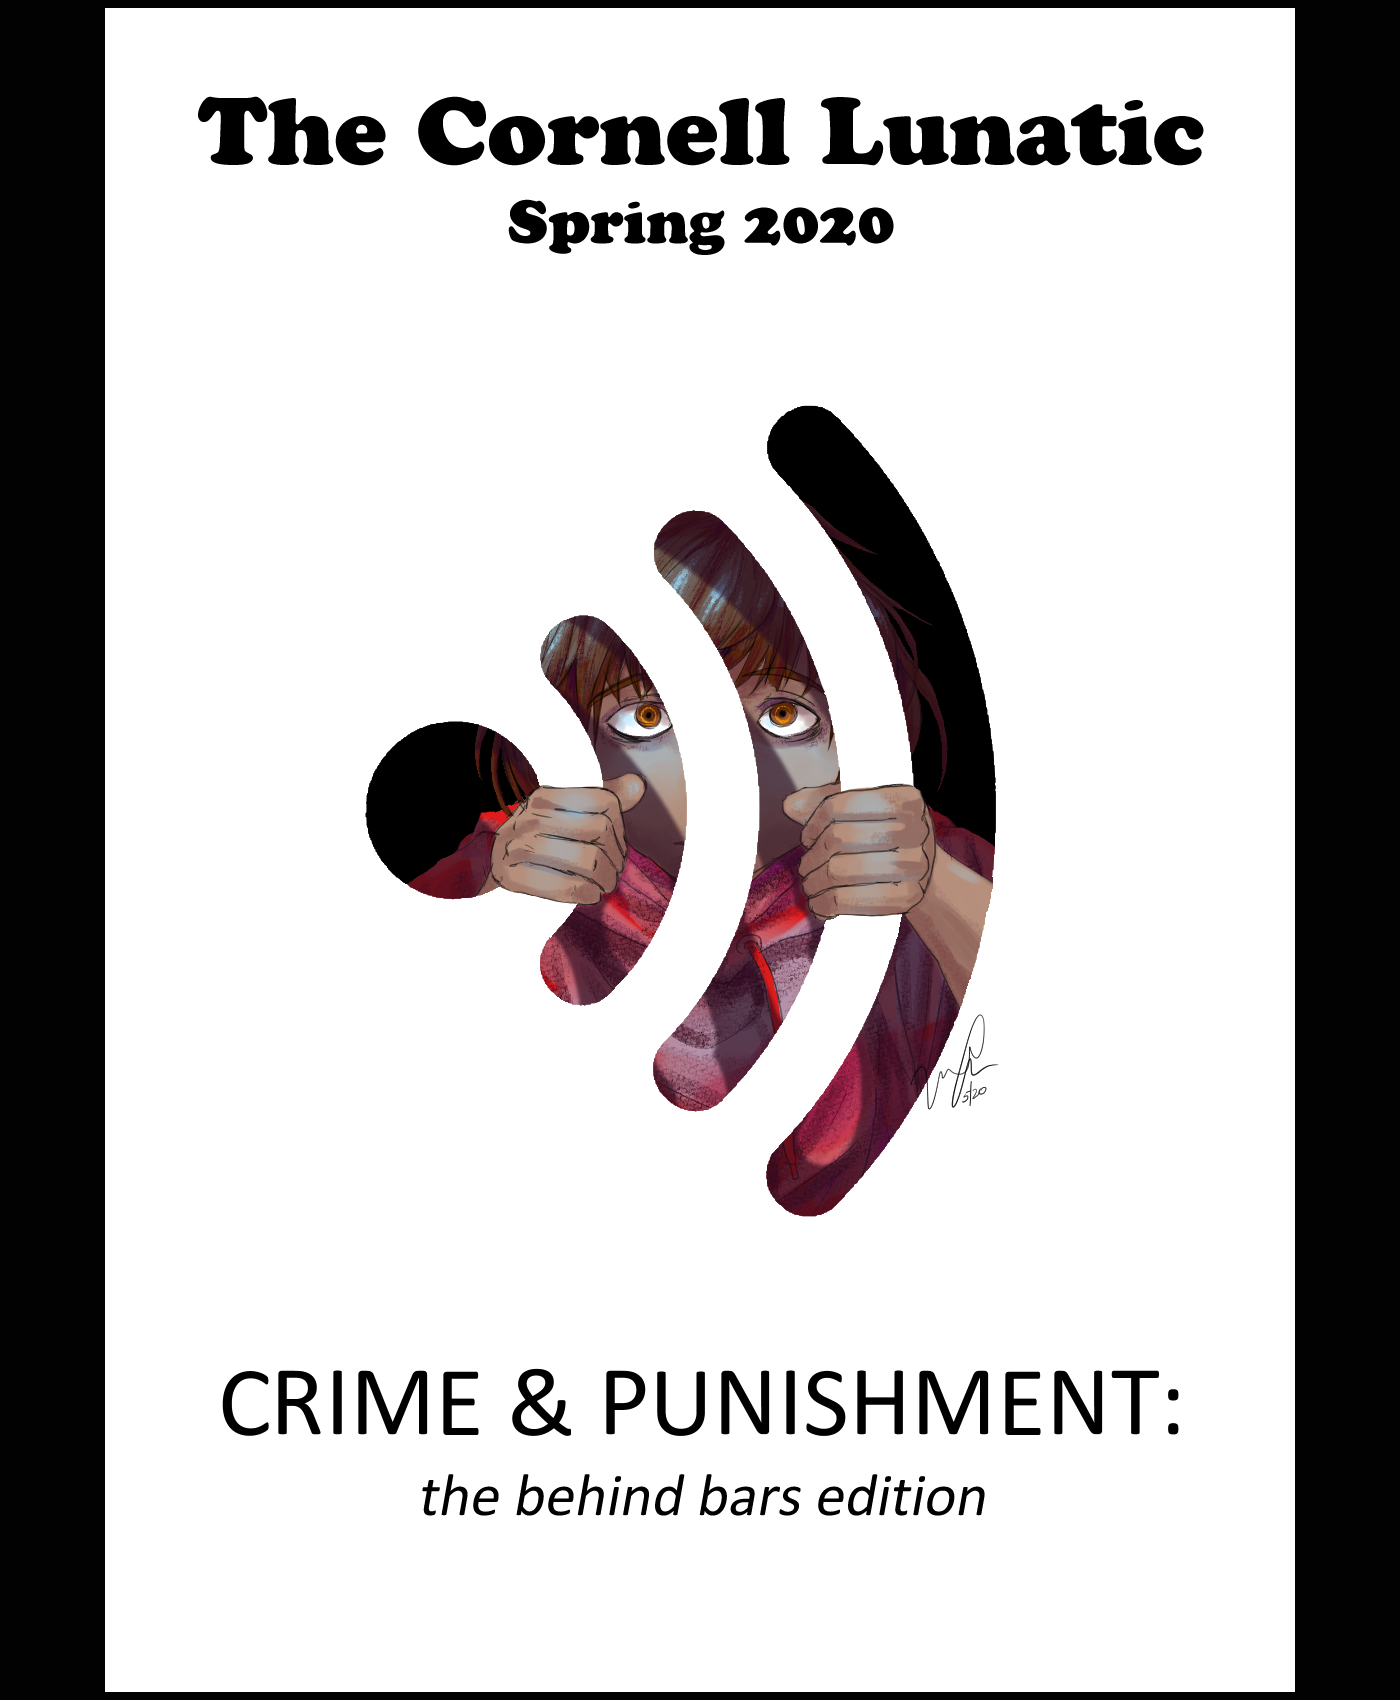
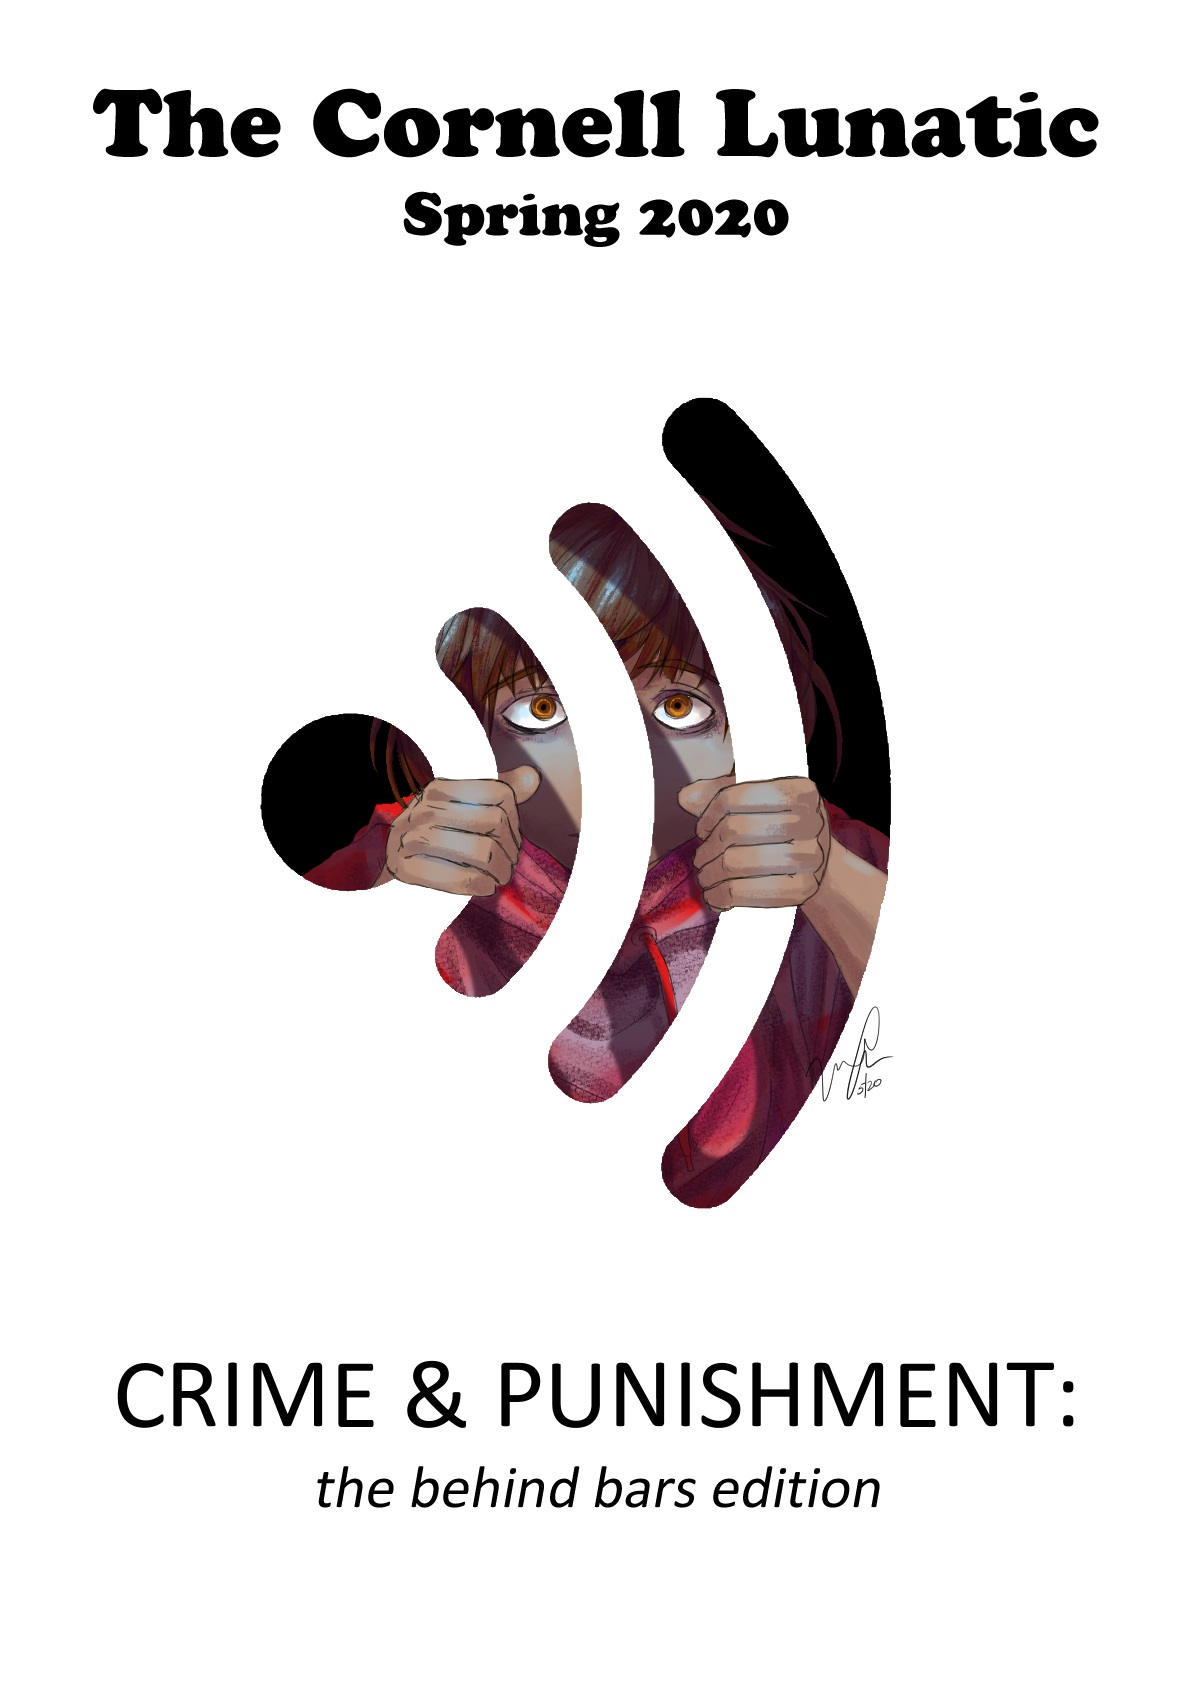
change image for sp20 and update phys ta time

diff --git a/src/pages/about/cv/index.md b/src/pages/about/cv/index.md
@@ -37,14 +37,14 @@ Used Python to perform multivariate analysis on historical market data at **Sako
 
 Extracted and visualized stellar maps of galaxies an online survey database using Python for galaxy evolution research with Dr. Charles Liu at the **American Museum of Natural History**, New York City. Used photometry and spectroscopy to analyze and classify hundreds of new galaxies.
 
-#### Physics Teaching Assistant, 08.2019 - Present
+#### Physics Teaching Assistant, 08.2019 - 5.2020
 
 Led a class of 20 undergraduates in discussion and group labs as an Undergraduate Teaching Assistant (UTA) for PHYS 1112 (Physics I: Mechanics & Heat) and PHYS 2213 (Physics II: Electromagnetism) at **Cornell University**.
 
 ## Skills
 
 - C++, Python, Java, OCaml, SQL, GameMaker Language, HTML & CSS, Mandarin Chinese
-- React.js, Jupyter Notebook, matplotlib, Git, sklearn, QtApplication
+- Jupyter Notebook, matplotlib, Git, sklearn, QtApplication, React.js
 - Adobe Certified Associate for Adobe Photoshop CC (3.2018)
 
 ## Honors
